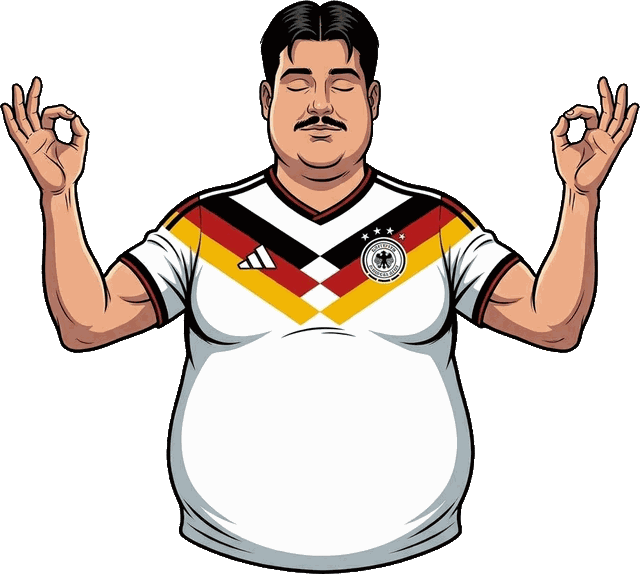
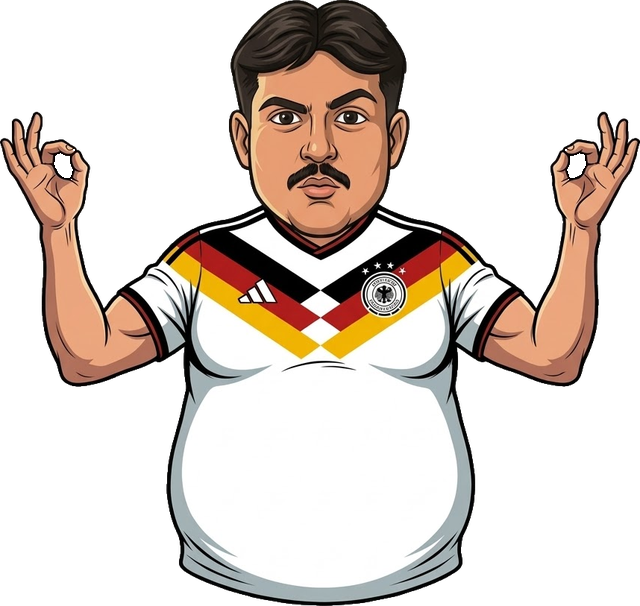
v249: Sinan-Karten mit neuen Bildern (Simon Martin, Sinano Martini, Sani Martins)
- spieler-de-5, spieler-it-5, spieler-ng-2 ersetzt (neu freigestellt, weisse
  Trikotflaechen deckend, Fingerringe bei Simon transparent)
- Position/Groesse neu: mittig, Kopf links der Flagge, kein Spalt zum
  Faehigkeitsbereich
- Versionen auf v249 angehoben

Claude-Session: https://claude.ai/code/session_01Bq3j1UmgmmQRjdUKFtX7an

Changed region(s): [[0.0, 0.0, 1.0, 1.0]]

diff --git a/spiele/fussball-auktion/design.js b/spiele/fussball-auktion/design.js
@@ -142,41 +142,41 @@ export function nationDesign(nation) {
 // Alle Karten, die hier NICHT eingetragen sind, bekommen automatisch die
 // gezeichnete Platzhalter-Silhouette (siehe kartenPortraitHtml in spiel.js).
 export const PORTRAET_BILDER = {
-  "de-1": "bilder/fussball-auktion/spieler-de-1.png?v=248",
-  "de-2": "bilder/fussball-auktion/spieler-de-2.png?v=248",
-  "de-3": "bilder/fussball-auktion/spieler-de-3.png?v=248",
-  "de-4": "bilder/fussball-auktion/spieler-de-4.png?v=248",
-  "de-5": "bilder/fussball-auktion/spieler-de-5.png?v=248",
-  "it-1": "bilder/fussball-auktion/spieler-it-1.png?v=248",
-  "it-2": "bilder/fussball-auktion/spieler-it-2.png?v=248",
-  "it-3": "bilder/fussball-auktion/spieler-it-3.png?v=248",
-  "it-4": "bilder/fussball-auktion/spieler-it-4.png?v=248",
-  "it-5": "bilder/fussball-auktion/spieler-it-5.png?v=248",
-  "jp-1": "bilder/fussball-auktion/spieler-jp-1.png?v=248",
-  "jp-2": "bilder/fussball-auktion/spieler-jp-2.png?v=248",
-  "jp-3": "bilder/fussball-auktion/spieler-jp-3.png?v=248",
-  "jp-4": "bilder/fussball-auktion/spieler-jp-4.png?v=248",
-  "jp-5": "bilder/fussball-auktion/spieler-jp-5.png?v=248",
-  "ar-1": "bilder/fussball-auktion/spieler-ar-1.png?v=248",
-  "ar-2": "bilder/fussball-auktion/spieler-ar-2.png?v=248",
-  "ar-3": "bilder/fussball-auktion/spieler-ar-3.png?v=248",
-  "ar-4": "bilder/fussball-auktion/spieler-ar-4.png?v=248",
-  "ar-5": "bilder/fussball-auktion/spieler-ar-5.png?v=248",
-  "fr-1": "bilder/fussball-auktion/spieler-fr-1.png?v=248",
-  "fr-2": "bilder/fussball-auktion/spieler-fr-2.png?v=248",
-  "fr-3": "bilder/fussball-auktion/spieler-fr-3.png?v=248",
-  "fr-4": "bilder/fussball-auktion/spieler-fr-4.png?v=248",
-  "fr-5": "bilder/fussball-auktion/spieler-fr-5.png?v=248",
-  "ng-1": "bilder/fussball-auktion/spieler-ng-1.png?v=248",
-  "ng-2": "bilder/fussball-auktion/spieler-ng-2.png?v=248",
-  "ng-3": "bilder/fussball-auktion/spieler-ng-3.png?v=248",
-  "ng-4": "bilder/fussball-auktion/spieler-ng-4.png?v=248",
-  "ng-5": "bilder/fussball-auktion/spieler-ng-5.png?v=248",
-  "br-1": "bilder/fussball-auktion/spieler-br-1.png?v=248",
-  "br-2": "bilder/fussball-auktion/spieler-br-2.png?v=248",
-  "br-3": "bilder/fussball-auktion/spieler-br-3.png?v=248",
-  "br-4": "bilder/fussball-auktion/spieler-br-4.png?v=248",
-  "br-5": "bilder/fussball-auktion/spieler-br-5.png?v=248"
+  "de-1": "bilder/fussball-auktion/spieler-de-1.png?v=249",
+  "de-2": "bilder/fussball-auktion/spieler-de-2.png?v=249",
+  "de-3": "bilder/fussball-auktion/spieler-de-3.png?v=249",
+  "de-4": "bilder/fussball-auktion/spieler-de-4.png?v=249",
+  "de-5": "bilder/fussball-auktion/spieler-de-5.png?v=249",
+  "it-1": "bilder/fussball-auktion/spieler-it-1.png?v=249",
+  "it-2": "bilder/fussball-auktion/spieler-it-2.png?v=249",
+  "it-3": "bilder/fussball-auktion/spieler-it-3.png?v=249",
+  "it-4": "bilder/fussball-auktion/spieler-it-4.png?v=249",
+  "it-5": "bilder/fussball-auktion/spieler-it-5.png?v=249",
+  "jp-1": "bilder/fussball-auktion/spieler-jp-1.png?v=249",
+  "jp-2": "bilder/fussball-auktion/spieler-jp-2.png?v=249",
+  "jp-3": "bilder/fussball-auktion/spieler-jp-3.png?v=249",
+  "jp-4": "bilder/fussball-auktion/spieler-jp-4.png?v=249",
+  "jp-5": "bilder/fussball-auktion/spieler-jp-5.png?v=249",
+  "ar-1": "bilder/fussball-auktion/spieler-ar-1.png?v=249",
+  "ar-2": "bilder/fussball-auktion/spieler-ar-2.png?v=249",
+  "ar-3": "bilder/fussball-auktion/spieler-ar-3.png?v=249",
+  "ar-4": "bilder/fussball-auktion/spieler-ar-4.png?v=249",
+  "ar-5": "bilder/fussball-auktion/spieler-ar-5.png?v=249",
+  "fr-1": "bilder/fussball-auktion/spieler-fr-1.png?v=249",
+  "fr-2": "bilder/fussball-auktion/spieler-fr-2.png?v=249",
+  "fr-3": "bilder/fussball-auktion/spieler-fr-3.png?v=249",
+  "fr-4": "bilder/fussball-auktion/spieler-fr-4.png?v=249",
+  "fr-5": "bilder/fussball-auktion/spieler-fr-5.png?v=249",
+  "ng-1": "bilder/fussball-auktion/spieler-ng-1.png?v=249",
+  "ng-2": "bilder/fussball-auktion/spieler-ng-2.png?v=249",
+  "ng-3": "bilder/fussball-auktion/spieler-ng-3.png?v=249",
+  "ng-4": "bilder/fussball-auktion/spieler-ng-4.png?v=249",
+  "ng-5": "bilder/fussball-auktion/spieler-ng-5.png?v=249",
+  "br-1": "bilder/fussball-auktion/spieler-br-1.png?v=249",
+  "br-2": "bilder/fussball-auktion/spieler-br-2.png?v=249",
+  "br-3": "bilder/fussball-auktion/spieler-br-3.png?v=249",
+  "br-4": "bilder/fussball-auktion/spieler-br-4.png?v=249",
+  "br-5": "bilder/fussball-auktion/spieler-br-5.png?v=249"
 };
 
 // Manche Porträts sind (je nach Bildausschnitt) von Natur aus breiter als
@@ -188,7 +188,7 @@ export const PORTRAET_VERSATZ = {
   "it-1": 14,
   "it-2": 15,
   "it-4": 19,
-  "it-5": 14,
+  "it-5": 14.1,
   "jp-3": 21,
   "jp-4": 19,
   "jp-5": 19,
@@ -205,8 +205,9 @@ export const PORTRAET_VERSATZ = {
   "de-2": 13,
   "de-3": 15,
   "de-4": 17,
-  "de-5": 2,
+  "de-5": 4.4,
   "it-3": 14,
+  "ng-2": 10.3,
   "br-1": 21.4,
   "br-2": 18.1,
   "br-3": 18,
@@ -230,10 +231,11 @@ export const PORTRAET_GROESSE = {
   "ar-4": { hoehe: 70, unten: 8 },
   "ar-3": { hoehe: 54, unten: 20 },
   "ar-5": { hoehe: 54, unten: 19 },
-  "ng-2": { hoehe: 58 },
+  "ng-2": { hoehe: 55, unten: 13 },
+  "it-5": { hoehe: 62, unten: 13 },
   "ng-5": { hoehe: 61, unten: 16 },
   "jp-5": { unten: 22 },
-  "de-5": { hoehe: 62, unten: 12 },
+  "de-5": { hoehe: 62, unten: 13 },
   "br-1": { hoehe: 66, unten: 13 },
   "br-2": { hoehe: 66, unten: 13 },
   "br-3": { hoehe: 66, unten: 13 },

diff --git a/sw.js b/sw.js
@@ -4,7 +4,7 @@
 // Nur dann wirft der Browser den alten Zwischenspeicher weg und alle Spieler
 // bekommen zuverlässig die neue Version. Das ist der einzige Handgriff, den man
 // nach dem Bearbeiten von Dateien nicht vergessen darf.
-const CACHE_NAME = "trollhouse-v248";
+const CACHE_NAME = "trollhouse-v249";
 
 const DATEIEN = [
   "./",
@@ -47,41 +47,41 @@ const DATEIEN = [
   "spiele/fussball-auktion/logik.js",
   "spiele/fussball-auktion/design.js",
   "spiele/fussball-auktion/karten.json",
-  "bilder/fussball-auktion/spieler-it-1.png?v=248",
-  "bilder/fussball-auktion/spieler-it-2.png?v=248",
-  "bilder/fussball-auktion/spieler-it-3.png?v=248",
-  "bilder/fussball-auktion/spieler-it-4.png?v=248",
-  "bilder/fussball-auktion/spieler-it-5.png?v=248",
-  "bilder/fussball-auktion/spieler-de-1.png?v=248",
-  "bilder/fussball-auktion/spieler-de-2.png?v=248",
-  "bilder/fussball-auktion/spieler-de-3.png?v=248",
-  "bilder/fussball-auktion/spieler-de-4.png?v=248",
-  "bilder/fussball-auktion/spieler-de-5.png?v=248",
-  "bilder/fussball-auktion/spieler-jp-1.png?v=248",
-  "bilder/fussball-auktion/spieler-jp-2.png?v=248",
-  "bilder/fussball-auktion/spieler-jp-3.png?v=248",
-  "bilder/fussball-auktion/spieler-jp-4.png?v=248",
-  "bilder/fussball-auktion/spieler-jp-5.png?v=248",
-  "bilder/fussball-auktion/spieler-br-1.png?v=248",
-  "bilder/fussball-auktion/spieler-br-2.png?v=248",
-  "bilder/fussball-auktion/spieler-br-3.png?v=248",
-  "bilder/fussball-auktion/spieler-br-4.png?v=248",
-  "bilder/fussball-auktion/spieler-br-5.png?v=248",
-  "bilder/fussball-auktion/spieler-ar-1.png?v=248",
-  "bilder/fussball-auktion/spieler-ar-2.png?v=248",
-  "bilder/fussball-auktion/spieler-ar-3.png?v=248",
-  "bilder/fussball-auktion/spieler-ar-4.png?v=248",
-  "bilder/fussball-auktion/spieler-ar-5.png?v=248",
-  "bilder/fussball-auktion/spieler-fr-1.png?v=248",
-  "bilder/fussball-auktion/spieler-fr-2.png?v=248",
-  "bilder/fussball-auktion/spieler-fr-3.png?v=248",
-  "bilder/fussball-auktion/spieler-fr-4.png?v=248",
-  "bilder/fussball-auktion/spieler-fr-5.png?v=248",
-  "bilder/fussball-auktion/spieler-ng-1.png?v=248",
-  "bilder/fussball-auktion/spieler-ng-2.png?v=248",
-  "bilder/fussball-auktion/spieler-ng-3.png?v=248",
-  "bilder/fussball-auktion/spieler-ng-4.png?v=248",
-  "bilder/fussball-auktion/spieler-ng-5.png?v=248",
+  "bilder/fussball-auktion/spieler-it-1.png?v=249",
+  "bilder/fussball-auktion/spieler-it-2.png?v=249",
+  "bilder/fussball-auktion/spieler-it-3.png?v=249",
+  "bilder/fussball-auktion/spieler-it-4.png?v=249",
+  "bilder/fussball-auktion/spieler-it-5.png?v=249",
+  "bilder/fussball-auktion/spieler-de-1.png?v=249",
+  "bilder/fussball-auktion/spieler-de-2.png?v=249",
+  "bilder/fussball-auktion/spieler-de-3.png?v=249",
+  "bilder/fussball-auktion/spieler-de-4.png?v=249",
+  "bilder/fussball-auktion/spieler-de-5.png?v=249",
+  "bilder/fussball-auktion/spieler-jp-1.png?v=249",
+  "bilder/fussball-auktion/spieler-jp-2.png?v=249",
+  "bilder/fussball-auktion/spieler-jp-3.png?v=249",
+  "bilder/fussball-auktion/spieler-jp-4.png?v=249",
+  "bilder/fussball-auktion/spieler-jp-5.png?v=249",
+  "bilder/fussball-auktion/spieler-br-1.png?v=249",
+  "bilder/fussball-auktion/spieler-br-2.png?v=249",
+  "bilder/fussball-auktion/spieler-br-3.png?v=249",
+  "bilder/fussball-auktion/spieler-br-4.png?v=249",
+  "bilder/fussball-auktion/spieler-br-5.png?v=249",
+  "bilder/fussball-auktion/spieler-ar-1.png?v=249",
+  "bilder/fussball-auktion/spieler-ar-2.png?v=249",
+  "bilder/fussball-auktion/spieler-ar-3.png?v=249",
+  "bilder/fussball-auktion/spieler-ar-4.png?v=249",
+  "bilder/fussball-auktion/spieler-ar-5.png?v=249",
+  "bilder/fussball-auktion/spieler-fr-1.png?v=249",
+  "bilder/fussball-auktion/spieler-fr-2.png?v=249",
+  "bilder/fussball-auktion/spieler-fr-3.png?v=249",
+  "bilder/fussball-auktion/spieler-fr-4.png?v=249",
+  "bilder/fussball-auktion/spieler-fr-5.png?v=249",
+  "bilder/fussball-auktion/spieler-ng-1.png?v=249",
+  "bilder/fussball-auktion/spieler-ng-2.png?v=249",
+  "bilder/fussball-auktion/spieler-ng-3.png?v=249",
+  "bilder/fussball-auktion/spieler-ng-4.png?v=249",
+  "bilder/fussball-auktion/spieler-ng-5.png?v=249",
   "spiele/doppelblick/spiel.js",
   "spiele/blitzquiz/spiel.js",
   "spiele/blitzquiz/fragen.json",

diff --git a/index.html b/index.html
@@ -18,7 +18,7 @@
   <link rel="preconnect" href="https://fonts.googleapis.com">
   <link rel="preconnect" href="https://fonts.gstatic.com" crossorigin>
   <link href="https://fonts.googleapis.com/css2?family=Barlow+Condensed:ital,wght@0,800;1,800&family=Bungee&display=swap" rel="stylesheet">
-  <link rel="stylesheet" href="stil.css?v=248">
+  <link rel="stylesheet" href="stil.css?v=249">
 </head>
 <body>
 
@@ -39,7 +39,7 @@
   <div id="start-screen" class="bildschirm-karte">
     <div class="start-hero">
       <div class="start-icon">
-        <img src="bilder/logo-fuchs-transparent.png?v=248" width="102" height="102" alt="" class="app-icon">
+        <img src="bilder/logo-fuchs-transparent.png?v=249" width="102" height="102" alt="" class="app-icon">
       </div>
       <h1>Trollhouse</h1>
       <p class="start-tagline">Ein Raum, ein Abend, viele Spiele</p>
@@ -192,11 +192,11 @@
   <div id="lobby-screen" class="bildschirm-karte" hidden>
     <div class="lobby-kopf">
       <div class="lobby-marke">
-        <span class="lobby-logo-badge"><img src="bilder/logo-fuchs-transparent.png?v=248" width="36" height="36" alt="" class="lobby-app-icon"></span>
+        <span class="lobby-logo-badge"><img src="bilder/logo-fuchs-transparent.png?v=249" width="36" height="36" alt="" class="lobby-app-icon"></span>
         <h1>Trollhouse</h1>
       </div>
       <button id="btn-lobby-verlassen" class="lobby-verlassen" type="button">
-        <img src="bilder/icon-raum-verlassen.svg?v=248" width="32" height="32" alt="">
+        <img src="bilder/icon-raum-verlassen.svg?v=249" width="32" height="32" alt="">
         <span class="nur-screenreader">Raum verlassen</span>
       </button>
     </div>
@@ -242,6 +242,6 @@
   <!-- ---------- Hierhin rendert das jeweils laufende Spiel ---------- -->
   <div id="spiel-wurzel"></div>
 
-  <script type="module" src="app.js?v=248"></script>
+  <script type="module" src="app.js?v=249"></script>
 </body>
 </html>

diff --git a/spiele/fussball-auktion/spiel.js b/spiele/fussball-auktion/spiel.js
@@ -30,12 +30,12 @@ import {
   zufaelligeRundenKategorien, mische,
   LAENDER_BONI, zaehleNationen, deutschlandPunkte, berechneKartenBoni,
   effektiveFaehigkeiten, effektiveGesamt, berechneNigeriaErstattung
-} from "./logik.js?v=248";
+} from "./logik.js?v=249";
 
 // Stechen (Tiebreak bei Gleichstand): 10 Sekunden Zeit zum Erhöhen, jedes
 // Erhöhen setzt den Timer zurück (siehe loeseAuktionsrundeAuf/pruefeStechenAblauf).
 const STECHEN_DAUER_MS = 10000;
-import { nationDesign, PORTRAET_BILDER, PORTRAET_VERSATZ, PORTRAET_GROESSE } from "./design.js?v=248";
+import { nationDesign, PORTRAET_BILDER, PORTRAET_VERSATZ, PORTRAET_GROESSE } from "./design.js?v=249";
 
 const VORLAGE = `
   <div id="fa-setup" class="bildschirm-karte" hidden>

diff --git a/app.js b/app.js
@@ -13,9 +13,9 @@ import {
 // WICHTIG: bei jedem Versionssprung hier UND in spiele/register.js
 // (SPIEL_VERSION) mit hochzaehlen, sonst bekommen manche Geraete
 // Spiel-Fixes (spiele/<id>/spiel.js) verzoegert oder gar nicht mit.
-import { SPIELE, spielInfo } from "./spiele/register.js?v=248";
+import { SPIELE, spielInfo } from "./spiele/register.js?v=249";
 
-export const APP_VERSION = "v248";
+export const APP_VERSION = "v249";
 const appVersion = document.getElementById("app-version");
 appVersion.textContent = "Version " + APP_VERSION;
 

diff --git a/spiele/register.js b/spiele/register.js
@@ -18,7 +18,7 @@
 // in der Olympiade trotz Fix in v201/v202 teils noch bestehen lassen.
 // WICHTIG: bei jedem Versionssprung hier UND in app.js (Import von
 // register.js) mit hochzaehlen.
-const SPIEL_VERSION = "248";
+const SPIEL_VERSION = "249";
 
 export const SPIELE = [
   {
